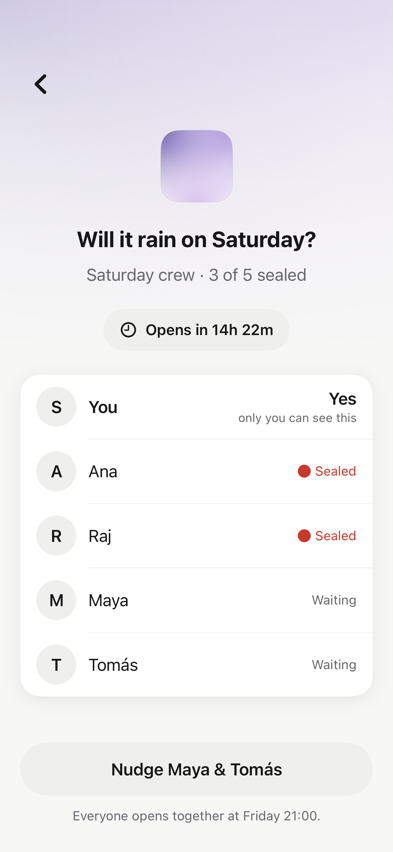
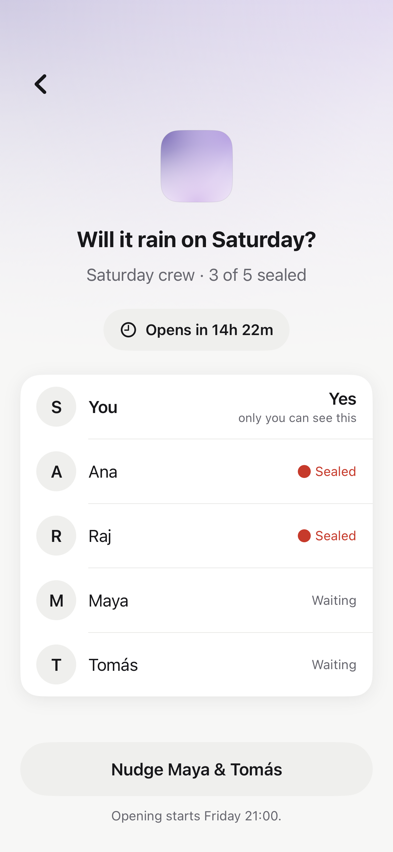
design(polish): describe the shared opening window

diff --git a/Slip/Screens/HomeScreens.swift b/Slip/Screens/HomeScreens.swift
@@ -103,7 +103,7 @@ struct HomeScreen: View {
                 .font(SlipFont.title2)
                 .foregroundStyle(SlipColor.ink)
 
-            Text("Ask your crew something. Everyone seals a pick, then you open together.")
+            Text("Ask your crew something. Everyone seals a pick. Opening starts at the deadline.")
                 .font(SlipFont.subheadline)
                 .foregroundStyle(SlipColor.secondary)
                 .multilineTextAlignment(.center)
@@ -480,7 +480,7 @@ struct HowStepContent: Identifiable, Sendable {
         HowStepContent(number: "1", mark: .pick, title: "Pick in private", body: "You choose on your own iPhone. The pick never uploads."),
         HowStepContent(number: "2", mark: .seal, title: "Seal it", body: "Your phone proves the pick without showing it. Only the proof leaves."),
         HowStepContent(number: "3", mark: .roster, title: "Wait together", body: "Everyone sees who has sealed, never what. Nudge the stragglers."),
-        HowStepContent(number: "4", mark: .open, title: "Open together", body: "At the deadline every pick opens at once, each checked against its seal."),
+        HowStepContent(number: "4", mark: .open, title: "Open your pick", body: "Opening starts at the deadline. Each pick is checked against its seal when it opens."),
         HowStepContent(number: "5", mark: .score, title: "Keep score", body: "The steward calls what happened. Winners take a point, losers take the banter.")
     ]
 }

diff --git a/Slip/Screens/SealScreens.swift b/Slip/Screens/SealScreens.swift
@@ -336,7 +336,7 @@ struct TicketScreen: View {
                         fact("Transaction size", "\(networkReceipt.transactionBytes) bytes")
                     } else {
                     fact(receipt == nil && !postingLater ? "Left this iPhone" : "Sharing", receipt == nil && !postingLater ? "the proof, never the pick" : "Stays here in this local build")
-                    fact(receipt == nil ? "Opens" : "Retention", receipt == nil ? "Friday 21:00, with everyone" : "This app session only")
+                    fact(receipt == nil ? "Opens" : "Retention", receipt == nil ? "From Friday 21:00" : "This app session only")
                     }
                     if networkReceipt != nil {
                     } else if let receipt {

diff --git a/SlipTests/HeadingAccessibilityTests.swift b/SlipTests/HeadingAccessibilityTests.swift
@@ -43,7 +43,7 @@ struct HeadingAccessibilityTests {
     @Test("Guide step four reads the opening explanation without decorative Yes and No examples")
     func openingStepLabel() {
         #expect(HowStepContent.steps[3].accessibilityLabel ==
-                "Step 4. Open together. At the deadline every pick opens at once, each checked against its seal.")
+                "Step 4. Open your pick. Opening starts at the deadline. Each pick is checked against its seal when it opens.")
     }
 
     @Test("Guide step five reads the scoring explanation without a detached plus-one stop")

diff --git a/Slip/Screens/ResultScreens.swift b/Slip/Screens/ResultScreens.swift
@@ -95,7 +95,7 @@ struct SealedRoomScreen: View {
                     PillButton(title: "Nudge Maya & Tomás", tone: .secondary) {
                         model.inform("This preview did not send a nudge to Maya or Tomás.")
                     }
-                    Text("Everyone opens together at Friday 21:00.")
+                    Text("Opening starts Friday 21:00.")
                         .font(SlipFont.footnote)
                         .foregroundStyle(SlipColor.secondary)
                         .multilineTextAlignment(.center)

diff --git a/Slip/Screens/CreationScreens.swift b/Slip/Screens/CreationScreens.swift
@@ -358,7 +358,7 @@ struct InviteScreen: View {
                     }
                     .padding(.top, SlipSpacing.large)
 
-                    Text("Sealed on your own iPhone, opened together. You can still peek at your own pick.")
+                    Text("Seal on your iPhone. Open after the deadline. You can still peek at your own pick.")
                         .font(SlipFont.footnote)
                         .foregroundStyle(SlipColor.secondary)
                         .multilineTextAlignment(.center)

diff --git a/README.md b/README.md
@@ -116,7 +116,7 @@ substitute for an authenticated physical-device run.
 
 ## Design and documentation
 
-The [30 canonical v6 boards](docs/design/v6/) are losslessly compacted copies of the reviewed app snapshots, produced on 2026-09-05 after the Luma pass. They cover 24 routes plus three dark and three AX1 boards; v5 Paper boards are historical. Snapshot tests use serialized key-window rendering, 1× standard-range PNGs, light/dark, XL, AX1 and AX5. The 120 references total **11,193,650 bytes** after pixel-identical lossless compression; the comparison threshold remains **0.012**. Re-recording is explicit; see [testing](.claude/docs/testing.md).
+The [30 canonical v6 boards](docs/design/v6/) are losslessly compacted copies of the reviewed app snapshots, produced on 2026-09-05 after the Luma pass. They cover 24 routes plus three dark and three AX1 boards; v5 Paper boards are historical. Snapshot tests use serialized key-window rendering, 1× standard-range PNGs, light/dark, XL, AX1 and AX5. The 120 references total **11,191,393 bytes** after pixel-identical lossless compression; the comparison threshold remains **0.012**. Re-recording is explicit; see [testing](.claude/docs/testing.md).
 
 The [interactive explainer](docs/how-slip-works.html) distinguishes the current local build from the planned connected flow. It is an illustration, not a transaction receipt.
 
